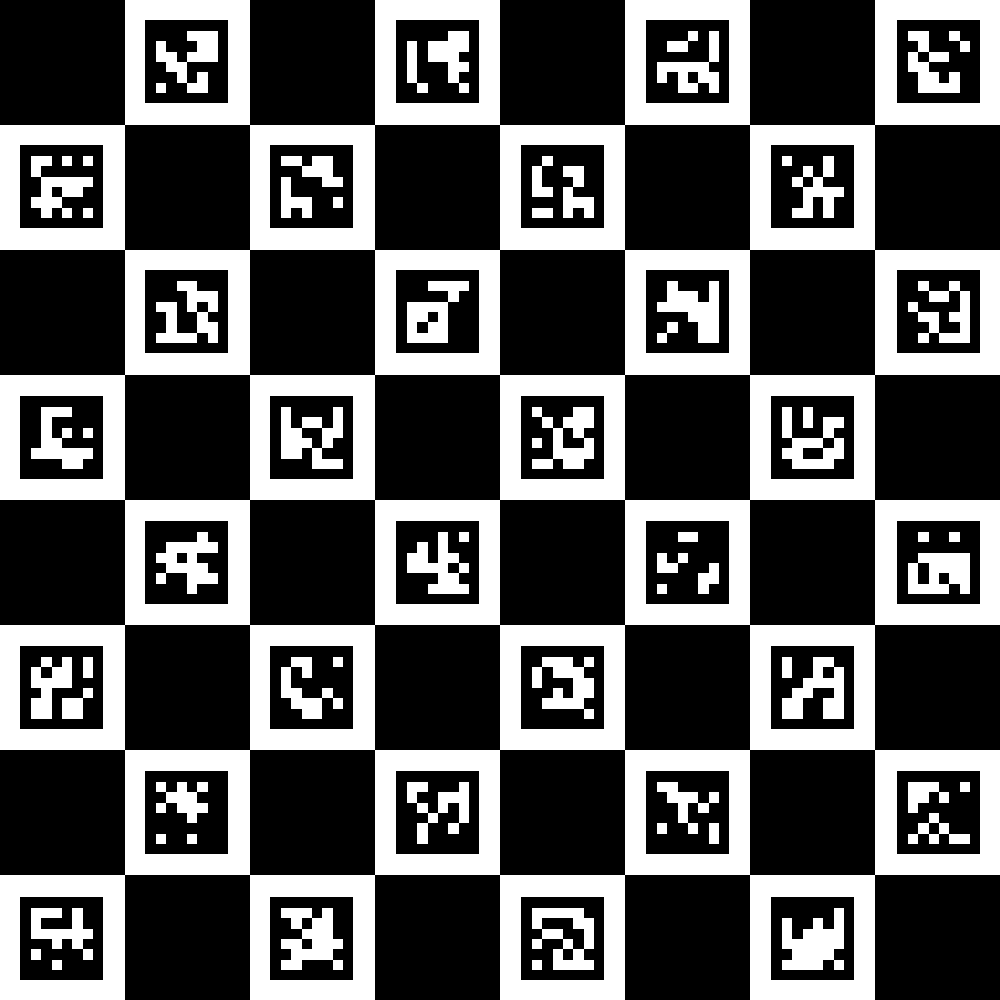
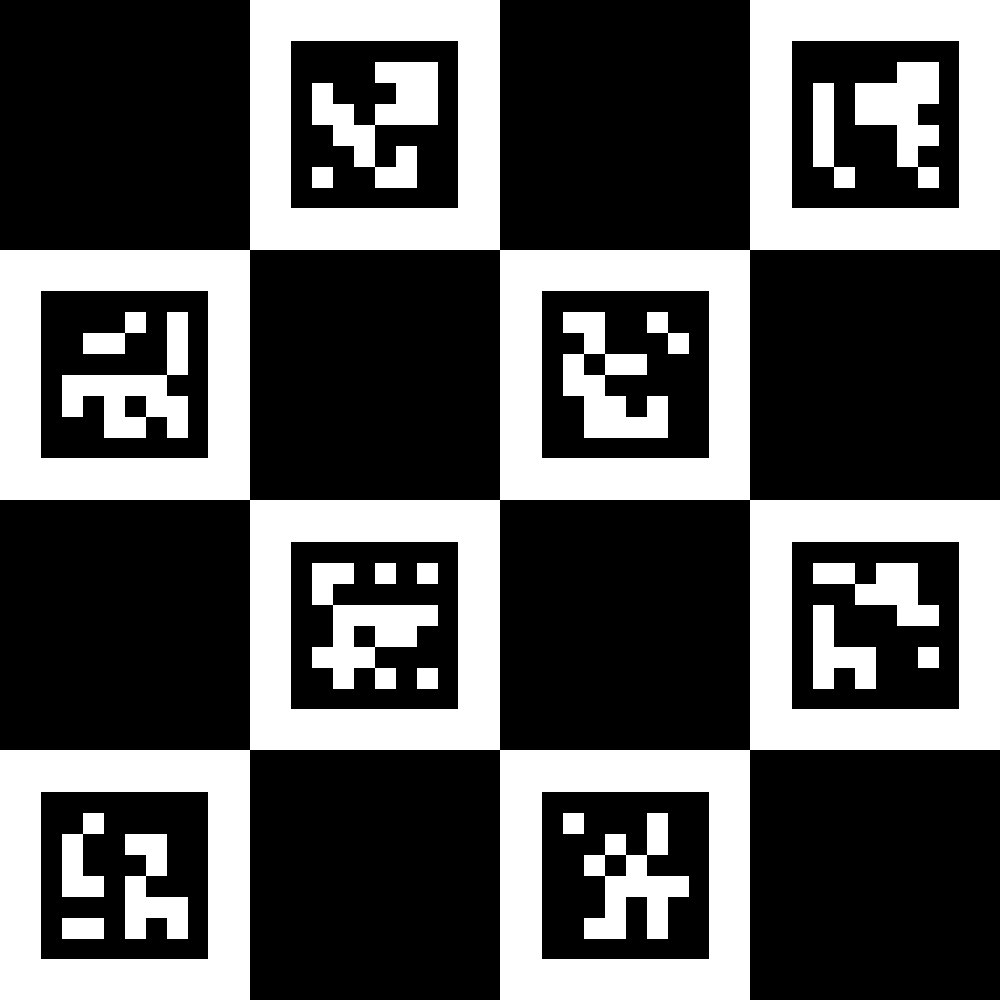
data

diff --git a/dorna_vision/calibrate.py b/dorna_vision/calibrate.py
@@ -13,8 +13,6 @@ T_cam_2_j4 = np.matrix([[-4.93641500e-01, -8.67863349e-01,  5.59578205e-02,  6.4
                         [ 0.00000000e+00,  0.00000000e+00,  0.00000000e+00,  1.00000000e+00]])
 """
 def eye_in_hand_dorna_ta_embeded_camera(robot, kinematic, camera, charuco_board):
-    xyz_old = np.array([0,0,0])
-    t_target_2_cam_old = np.matrix([[0], [0], [0]])
     # init window
     cv2.namedWindow('color', cv2.WINDOW_NORMAL)
 
@@ -32,17 +30,17 @@ def eye_in_hand_dorna_ta_embeded_camera(robot, kinematic, camera, charuco_board)
 
     for joint in all_joints:
         # move to the joint
-        #robot.jmove(rel=0, vel=50, accel=800, jerk=1000, j0=joint[0], j1=joint[1], j2=joint[2], j3=joint[3], j4=joint[4], j5=joint[5])
-        #robot.sleep(1)
+        robot.jmove(rel=0, vel=50, accel=800, jerk=1000, j0=joint[0], j1=joint[1], j2=joint[2], j3=joint[3], j4=joint[4], j5=joint[5])
+        robot.sleep(1)
 
         # capture image
-        for i in range(1):
-            depth_frame, _, _, _, _, color_img, depth_int, _, _= camera.get_all()
-            time.sleep(0.01)
+        _, _, _, _, _, color_img, depth_int, _, _= camera.get_all()
 
-        # current joint and pose
+        # joint
         joint = robot.get_all_joint()
         joints.append(joint)
+        
+        # pose
         T_j4_2_base = kinematic.Ti_r_world(i=5, joint=joint[0:6])
         R_j4_2_base_list.append(T_j4_2_base[:3, :3])
         t_j4_2_base_list.append(T_j4_2_base[:3, 3])
@@ -51,24 +49,6 @@ def eye_in_hand_dorna_ta_embeded_camera(robot, kinematic, camera, charuco_board)
         R_target_2_cam, t_target_2_cam, charuco_id, img_gray = charuco_board.pose(color_img, camera.camera_matrix(depth_int), camera.dist_coeffs(depth_int))   
         R_target_2_cam_list.append(R_target_2_cam)
         t_target_2_cam_list.append(t_target_2_cam)
-        #print(camera.xyz(self, pxl, depth_frame, depth_int))
-
-        ### find center
-        # Define 3D points in world coordinate system
-        center_point = np.array([0, 0, 0], dtype=np.float32)
-        img_point, _ = cv2.projectPoints(center_point, R_target_2_cam, t_target_2_cam, camera.camera_matrix(depth_int), camera.dist_coeffs(depth_int))
-        x = int(img_point[0][0][0])
-        y = int(img_point[0][0][1])
-        cv2.circle(color_img, (x, y), 10, (0, 120, 0), 2)
-        xyz, _ = camera.xyz((x, y), depth_frame, depth_int, wnd = (5,5))
-        #print("compare: ",np.linalg.norm(xyz-t_target_2_cam.flatten()))
-        #print("board: ", np.linalg.norm(t_target_2_cam_old.flatten()-t_target_2_cam.flatten()))
-        print("xyz: ", xyz)
-        print("###")
-        xyz_old = np.copy(xyz)
-        t_target_2_cam_old = np.copy(t_target_2_cam)
-        ###
-        #camera.xyz(pxl, depth_frame, depth_int)
 
         # show axis
         cv2.imshow("color",color_img)
@@ -80,6 +60,7 @@ def eye_in_hand_dorna_ta_embeded_camera(robot, kinematic, camera, charuco_board)
             break
 
 
+    """
     # run calibration    
     R_cam_2_j4, t_cam_2_j4 = cv2.calibrateHandEye(R_j4_2_base_list, t_j4_2_base_list, R_target_2_cam_list, t_target_2_cam_list)
     
@@ -87,7 +68,7 @@ def eye_in_hand_dorna_ta_embeded_camera(robot, kinematic, camera, charuco_board)
     T_cam_2_j4 = np.eye(4)
     T_cam_2_j4[:3, :3] = R_cam_2_j4
     T_cam_2_j4[:3, 3] = np.ravel(t_cam_2_j4)
-
+    """
 
     # save data
     data = {
@@ -98,21 +79,21 @@ def eye_in_hand_dorna_ta_embeded_camera(robot, kinematic, camera, charuco_board)
         "t_j4_2_base_list":t_j4_2_base_list,       
     }
 
-    """
+    
     with open("data.pkl", 'wb') as f:
         pickle.dump(data, f)
-    """
-    return T_cam_2_j4
+    
+    return True
 
 
 def main_eye_in_hand_dorna_ta_embeded_camera():
     # parameters
     robot_ip = "192.168.254.54" 
     model = "dorna_ta"
-    sqr_x=8
-    sqr_y=8
-    sqr_length=12
-    marker_length=8
+    sqr_x=4
+    sqr_y=4
+    sqr_length=24
+    marker_length=16
     dictionary="DICT_6X6_250"
     refine="CORNER_REFINE_APRILTAG"
     subpix=False
@@ -139,8 +120,6 @@ def main_eye_in_hand_dorna_ta_embeded_camera():
     # close the connections
     camera.close()
     robot.close()
-
-    print("### T_cam_2_j4 ###\n", T_cam_2_j4)
 
 
 if __name__ == '__main__':

diff --git a/dorna_vision/calibrate-test.py b/dorna_vision/calibrate-test.py
@@ -69,6 +69,7 @@ def calibrate_eye_in_hand(joints, R_target_2_cam_list, t_target_2_cam_list, kine
 
 	#T_cam_2_j4[:3, 3] = f.x
 	T_cam_2_j4 = Euler_matrix([f.x[3],f.x[4],f.x[5]],[f.x[0],f.x[1],f.x[2]])
+
 	
 	return T_cam_2_j4
 """test points in the resulted joints

diff --git a/dorna_vision/board.py b/dorna_vision/board.py
@@ -175,7 +175,7 @@ def main_chess_corenr():
 
 
 def main_charuco_create():
-    test = Charuco(8, 8, 12, 8)
+    test = Charuco(4, 4, 24, 16)
     test.create("board.png")
     
 
